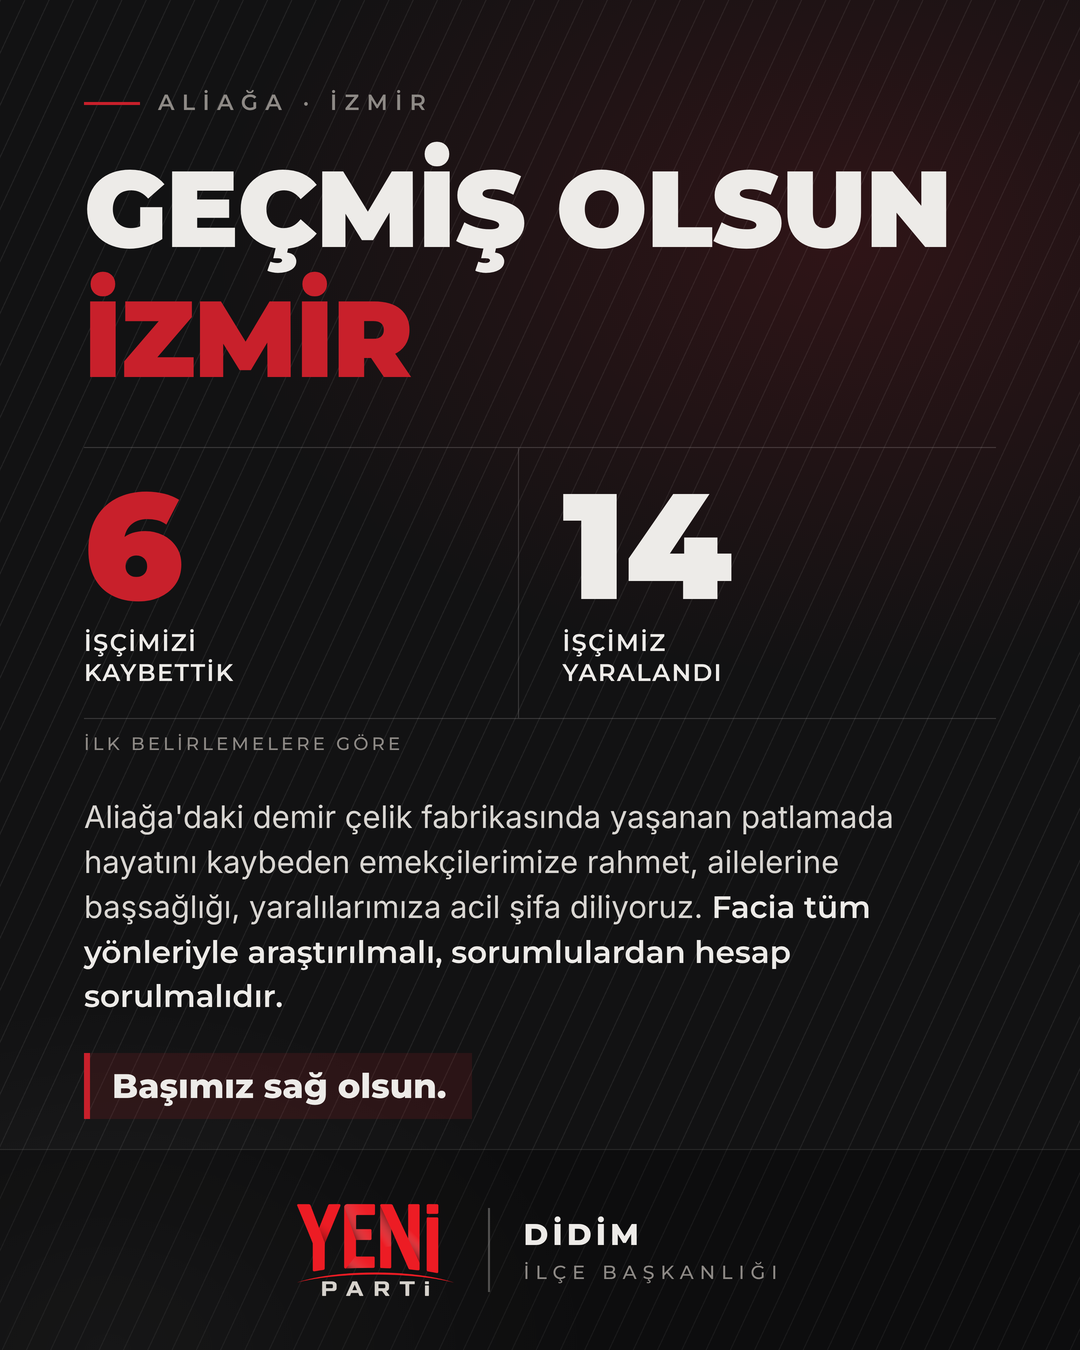
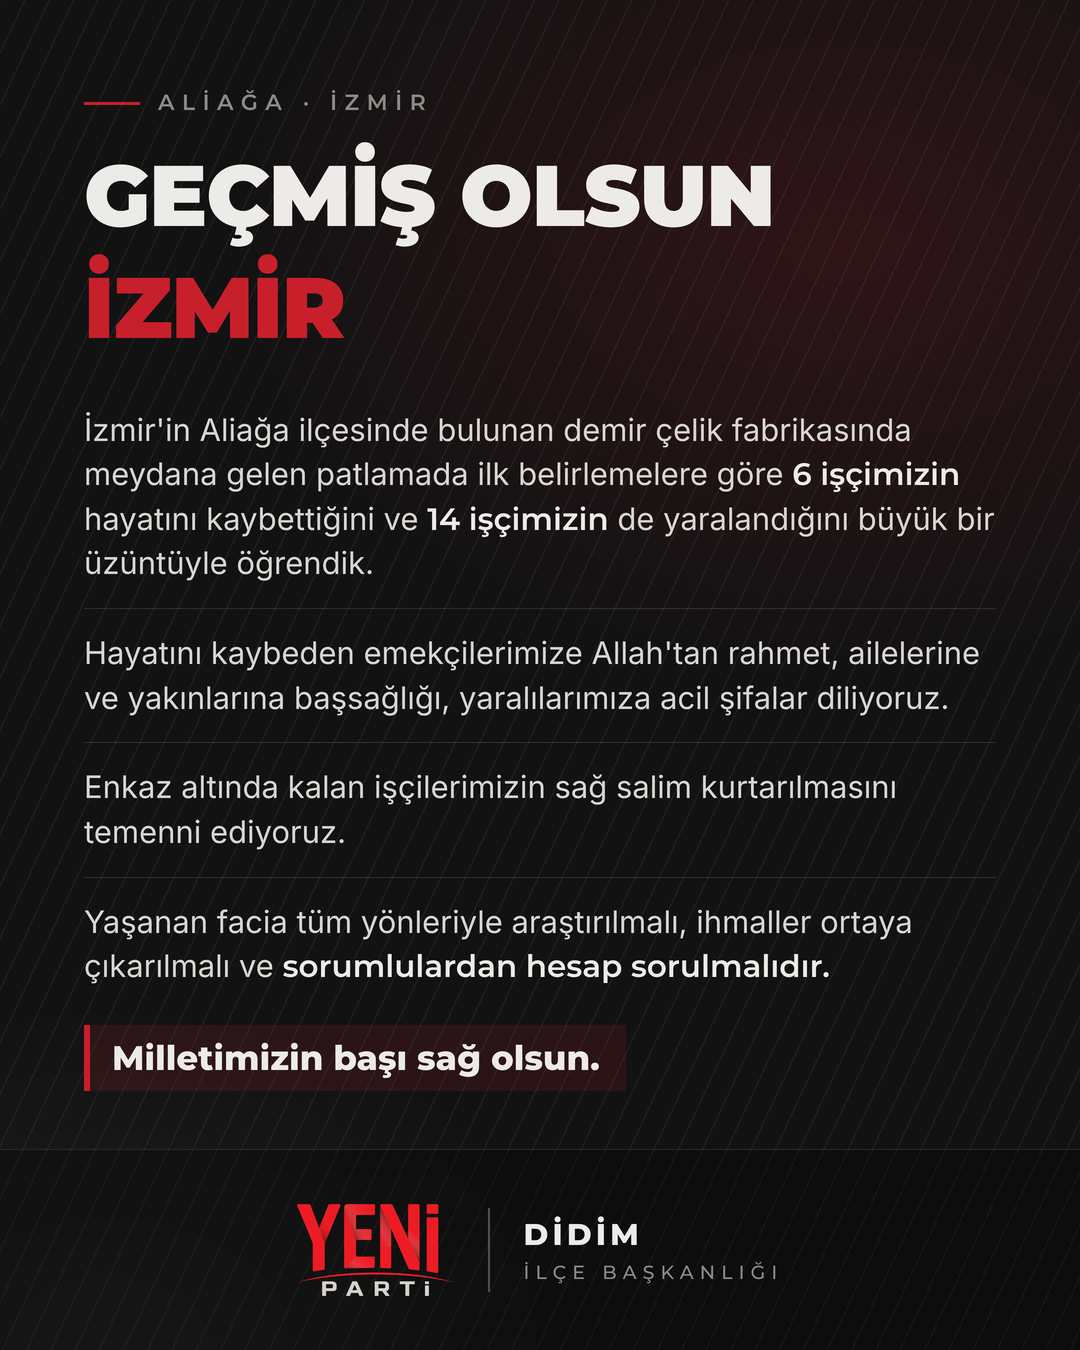
Aliağa: açıklama metni görselin üzerine taşındı
Claude-Session: https://claude.ai/code/session_01SatttGbgBLoCnk9KGLypWv

Changed region(s): [[0.0611, 0.3111, 0.9167, 0.84], [0.0611, 0.0933, 0.8861, 0.28]]

diff --git a/tasarim/kisisel/aliaga/aliaga.html b/tasarim/kisisel/aliaga/aliaga.html
@@ -12,7 +12,7 @@ html,body{margin:0;width:1080px;height:1350px;overflow:hidden;background:var(--z
 .wrap{position:absolute;left:84px;right:84px;top:92px}
 .ust{display:flex;align-items:center;gap:18px;font:22px/1 M6;letter-spacing:.34em;color:var(--gri)}
 .ust::before{content:"";width:56px;height:3px;background:var(--kir)}
-h1{margin:30px 0 0;font:108px/1.2 M9;letter-spacing:-.01em;text-transform:uppercase}
+h1{margin:26px 0 0;font:86px/1.3 M9;letter-spacing:-.01em;text-transform:uppercase}
 h1 span{color:var(--kir)}
 .sayilar{display:flex;gap:0;margin-top:44px;border-top:1px solid rgba(237,235,232,.18);border-bottom:1px solid rgba(237,235,232,.18)}
 .say{flex:1;padding:34px 0 30px}
@@ -21,9 +21,11 @@ h1 span{color:var(--kir)}
 .say:first-child b{color:var(--kir)}
 .say span{display:block;margin-top:18px;font:24px/1.25 M6;letter-spacing:.06em;color:var(--acik);text-transform:uppercase}
 .ilk{margin-top:16px;font:18px/1 M5;letter-spacing:.18em;color:var(--gri);text-transform:uppercase}
-.metin{margin-top:42px;font:31px/1.45 I4;color:#D9D6D2;max-width:900px}
+.metin{margin-top:44px;font:31px/1.44 I4;color:#D9D6D2}
+.metin p{margin:0;padding:0 0 22px}
+.metin p+p{padding-top:22px;border-top:1px solid rgba(237,235,232,.14)}
 .metin strong{font-family:M6;font-weight:normal;color:var(--acik)}
-.son{margin-top:34px;display:inline-block;font:34px/1 M8;color:var(--acik);padding:16px 26px 16px 22px;border-left:6px solid var(--kir);background:rgba(200,32,43,.14)}
+.son{margin-top:14px;display:inline-block;font:34px/1 M8;color:var(--acik);padding:16px 26px 16px 22px;border-left:6px solid var(--kir);background:rgba(200,32,43,.14)}
 .alt{position:absolute;left:0;right:0;bottom:0;height:200px;display:flex;align-items:center;justify-content:center;gap:34px;border-top:1px solid rgba(237,235,232,.12);background:rgba(0,0,0,.25)}
 .alt img{height:92px}
 .alt .ay{width:1.5px;height:84px;background:rgba(237,235,232,.3)}
@@ -33,14 +35,14 @@ h1 span{color:var(--kir)}
 <div class="isik"></div><div class="cizgiler"></div>
 <div class="wrap">
  <div class="ust">ALİAĞA · İZMİR</div>
- <h1>Geçmiş olsun<br><span>İzmir</span></h1>
- <div class="sayilar">
-  <div class="say"><b>6</b><span>İşçimizi<br>kaybettik</span></div>
-  <div class="say"><b>14</b><span>İşçimiz<br>yaralandı</span></div>
+ <h1>Geçmiş olsun <span>İzmir</span></h1>
+ <div class="metin">
+  <p>İzmir'in Aliağa ilçesinde bulunan demir çelik fabrikasında meydana gelen patlamada ilk belirlemelere göre <strong>6 işçimizin</strong> hayatını kaybettiğini ve <strong>14 işçimizin</strong> de yaralandığını büyük bir üzüntüyle öğrendik.</p>
+  <p>Hayatını kaybeden emekçilerimize Allah'tan rahmet, ailelerine ve yakınlarına başsağlığı, yaralılarımıza acil şifalar diliyoruz.</p>
+  <p>Enkaz altında kalan işçilerimizin sağ salim kurtarılmasını temenni ediyoruz.</p>
+  <p>Yaşanan facia tüm yönleriyle araştırılmalı, ihmaller ortaya çıkarılmalı ve <strong>sorumlulardan hesap sorulmalıdır.</strong></p>
  </div>
- <div class="ilk">İlk belirlemelere göre</div>
- <div class="metin">Aliağa'daki demir çelik fabrikasında yaşanan patlamada hayatını kaybeden emekçilerimize rahmet, ailelerine başsağlığı, yaralılarımıza acil şifa diliyoruz. <strong>Facia tüm yönleriyle araştırılmalı, sorumlulardan hesap sorulmalıdır.</strong></div>
- <div class="son">Başımız sağ olsun.</div>
+ <div class="son">Milletimizin başı sağ olsun.</div>
 </div>
 <div class="alt"><img src="yp-logo.png"><span class="ay"></span><div class="ad">DİDİM<small>İLÇE BAŞKANLIĞI</small></div></div>
 </body></html>
